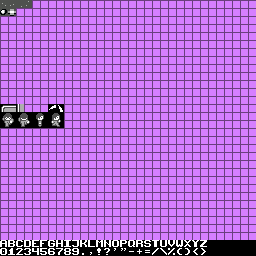
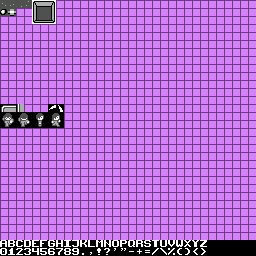
25 border transition render between water and grass 4:23:56

Changed region(s): [[0.125, 0.0, 0.2188, 0.0938]]

diff --git a/src/com/w1ll1x/ld22/level/tile/WaterTile.java b/src/com/w1ll1x/ld22/level/tile/WaterTile.java
@@ -13,13 +13,31 @@ public class WaterTile extends Tile {
 
 	public void render(Screen screen, Level level, int x, int y) {
 		int col = Color.get(4, 4, 335, 335);
-		screen.render(x * 16 + 0, y * 16 + 0, 0, col, 0);
-		screen.render(x * 16 + 0, y * 16 + 0, 0, col, 0);
-		screen.render(x * 16 + 8, y * 16 + 0, 0, col, 0);
-		screen.render(x * 16 + 0, y * 16 + 8, 0, col, 0);
-		screen.render(x * 16 + 8, y * 16 + 8, 0, col, 0);
+		int transitionColor = Color.get(100, 4, 211, level.grassColor);
+
+		boolean u = level.getTile(x, y - 1) != this;
+		boolean d = level.getTile(x, y + 1) != this;
+		boolean l = level.getTile(x - 1, y) != this;
+		boolean r = level.getTile(x + 1, y) != this;
+
+		if (!u && !l) {
+			screen.render(x * 16 + 0, y * 16 + 0, 0, col, 0);
+		} else {
+			screen.render(x * 16 + 0, y * 16 + 0, (l ? 4 : 5) + (1 - (u ? 0 : 1)) * 32, transitionColor, 0);
+		}
+		if (!u && !r) {
+			screen.render(x * 16 + 8, y * 16 + 0, 0, col, 0);
+		} else {
+			screen.render(x * 16 + 0, y * 16 + 0, (r ? 6 : 5) + (1 - (u ? 0 : 1)) * 32, transitionColor, 0);
+		}
+		if (!d && !l) {
+			screen.render(x * 16 + 0, y * 16 + 8, 0, col, 0);
+		}
+		if (!d && !r) {
+			screen.render(x * 16 + 8, y * 16 + 8, 0, col, 0);
+		}
 	}
-	
+
 	public boolean mayPass(Level level, int x, int y, Entity e) {
 		return false;
 	}

diff --git a/src/com/w1ll1x/ld22/level/tile/GrassTile.java b/src/com/w1ll1x/ld22/level/tile/GrassTile.java
@@ -13,9 +13,8 @@ public class GrassTile extends Tile {
 	public void render(Screen screen, Level level, int x, int y) {
 		int col = Color.get(level.grassColor, level.grassColor, level.grassColor + 111, level.grassColor + 111);
 		screen.render(x * 16 + 0, y * 16 + 0, 0, col, 0);
-		screen.render(x * 16 + 0, y * 16 + 0, 0, col, 0);
-		screen.render(x * 16 + 8, y * 16 + 0, 0, col, 0);
-		screen.render(x * 16 + 0, y * 16 + 8, 0, col, 0);
-		screen.render(x * 16 + 8, y * 16 + 8, 0, col, 0);
+		screen.render(x * 16 + 8, y * 16 + 0, 1, col, 0);
+		screen.render(x * 16 + 0, y * 16 + 8, 2, col, 0);
+		screen.render(x * 16 + 8, y * 16 + 8, 3, col, 0);
 	}
 }
